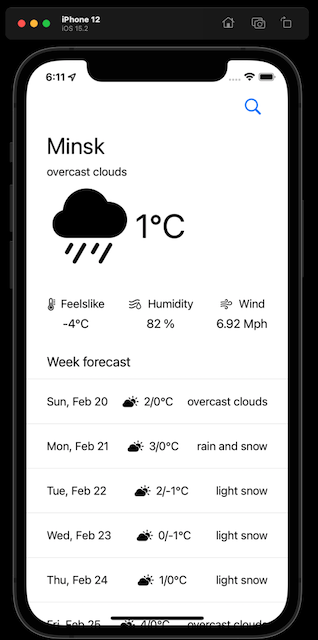
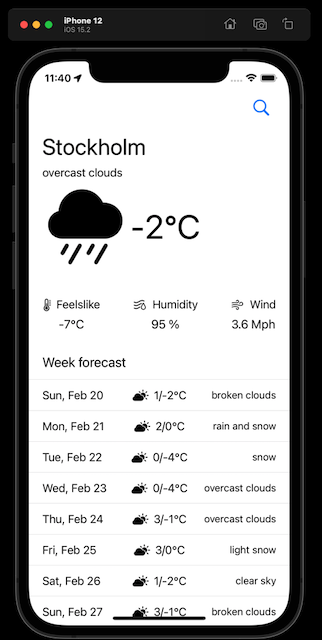
update UI components

diff --git a/weather/Network/RequestManager.swift b/weather/Network/RequestManager.swift
@@ -10,27 +10,21 @@ import CoreLocation
 
 class RequestManager {
     var completion: ((WeatherData) -> Void)?
-    var longtitude: Double?
-    var latitude: Double?
+    var city: String?
     let baseURL = "https://api.openweathermap.org/data/2.5/onecall"
     let geoURL = "https://api.openweathermap.org/geo/1.0/"
     let apiKey = "8c9460599c7df3435d34a035e543c72a"
-    var city: String? {
+    var location = CLLocationCoordinate2D(latitude: 0, longitude: 0) {
         didSet {
-            guard let latitude = self.latitude else { return }
-            guard let longtitude = self.longtitude else { return }
-            let url = "\(baseURL)?lat=\(latitude)&lon=\(longtitude)&exclude=minutely,hourly&units=metric&lang=en&appid=\(apiKey)"
-            getWeather(fromURL: url)
+            fetchWeather()
         }
     }
-    
     
     func getWeather (inLocation location: CLLocationCoordinate2D) {
         let geoURL = "\(geoURL)reverse?lat=\(location.latitude)&lon=\(location.longitude)&appid=\(apiKey)"
         URLSession.shared.getData(url: geoURL) { (data: LocationData?) in
             guard let city = data else { return }
-            self.latitude = location.latitude
-            self.longtitude = location.longitude
+            self.location = location
             self.city = city.last?.name
         }
     }
@@ -38,13 +32,17 @@ class RequestManager {
     func getWeather (inCity city: String) {
         let searchURL = "\(geoURL)direct?q=\(city)&appid=\(apiKey)".encodeUrl
         URLSession.shared.getData(url: searchURL) { (data: LocationData?) in
-            self.latitude = data?.last?.lat
-            self.longtitude = data?.last?.lon
+            if let lat = data?.last?.lat {
+                if let lon = data?.last?.lon {
+                    self.location = CLLocationCoordinate2D(latitude: lat, longitude: lon)
+                }
+            }
             self.city = data?.last?.name
         }
     }
     
-    private func getWeather(fromURL url: String) {
+    func fetchWeather() {
+        let url = "\(baseURL)?lat=\(location.latitude)&lon=\(location.longitude)&exclude=minutely,hourly&units=metric&lang=en&appid=\(apiKey)"
         URLSession.shared.getData(url: url) { (data: WeatherData?) in
             guard let data = data else { return }
             self.completion?(data)

diff --git a/weather/UI/Components/WeeklyForecastCell.swift b/weather/UI/Components/WeeklyForecastCell.swift
@@ -9,6 +9,8 @@ import SwiftUI
 
 import SwiftUI
 
+let contentSize = UIScreen.main.bounds.size.width / 3.5
+
 struct WeeklyForecastCell: View {
     @ObservedObject var mainViewModel: MainViewModel
     
@@ -17,24 +19,26 @@ struct WeeklyForecastCell: View {
         VStack(alignment: .center) {
             ForEach(mainViewModel.forecast) { value in
                 Divider()
-                HStack() {
+                HStack(alignment: .center) {
                     Text(value.date)
-                        .scaledToFill()
-                    Spacer()
-                    Image(systemName: "cloud.sun.fill")
-                    Text(value.minMaxTemp)
-                    Spacer()
+                        .frame(width: contentSize, height: 30, alignment: .leading)
+                    HStack {
+                        Image(systemName: "cloud.sun.fill")
+                        Text(value.minMaxTemp)
+                    }
+                    .frame(width: contentSize, height: 30, alignment: .center)
                     Text(value.conditionText)
-                        .scaledToFill()
-                }.padding(.horizontal, 30.0).padding(.vertical, 15)
+                        .frame(width: contentSize, height: 30, alignment: .trailing)
+                        .font(.system(size: 15))
+                }.padding(.horizontal, 30)
             }
         }
     }
 }
 
-//struct WeeklyForecastCell_Previews: PreviewProvider {
-//    static var previews: some View {
-//        //WeeklyForecastCell()
-//        MainView()
-//    }
-//}
+struct WeeklyForecastCell_Previews: PreviewProvider {
+    static var previews: some View {
+        //WeeklyForecastCell()
+        MainView()
+    }
+}

diff --git a/weather/UI/MainViewModel.swift b/weather/UI/MainViewModel.swift
@@ -14,9 +14,8 @@ class MainViewModel: ObservableObject {
     let notificationCenter = NotificationCenter.default
     var reqvestManager = RequestManager()
     
-    @objc func fetchData() {
+    @objc func getWeatherInlocation() {
         guard let location = LocationManager.shared.location else { return }
-        
         reqvestManager.completion = { [weak self] data in
             DispatchQueue.main.async {
                 guard let self = self else { return }
@@ -41,7 +40,7 @@ class MainViewModel: ObservableObject {
     
     func getLocation() {
         NotificationCenter.default.addObserver(self,
-                                               selector: #selector(fetchData),
+                                               selector: #selector(getWeatherInlocation),
                                                name: NSNotification.Name("location"),
                                                object: nil)
     }

diff --git a/weather/UI/Components/CurrentWeather.swift b/weather/UI/Components/CurrentWeather.swift
@@ -17,7 +17,7 @@ struct CurrentWeather: View {
             HStack {
                 Spacer()
                 Button {
-                    mainViewModel.getWeather(inCity: "санкт%20петербург")
+                    mainViewModel.getWeather(inCity: "стокгольм")
                 } label: {
                     Image(systemName: "magnifyingglass")
                         .font(.system(size: 25))
